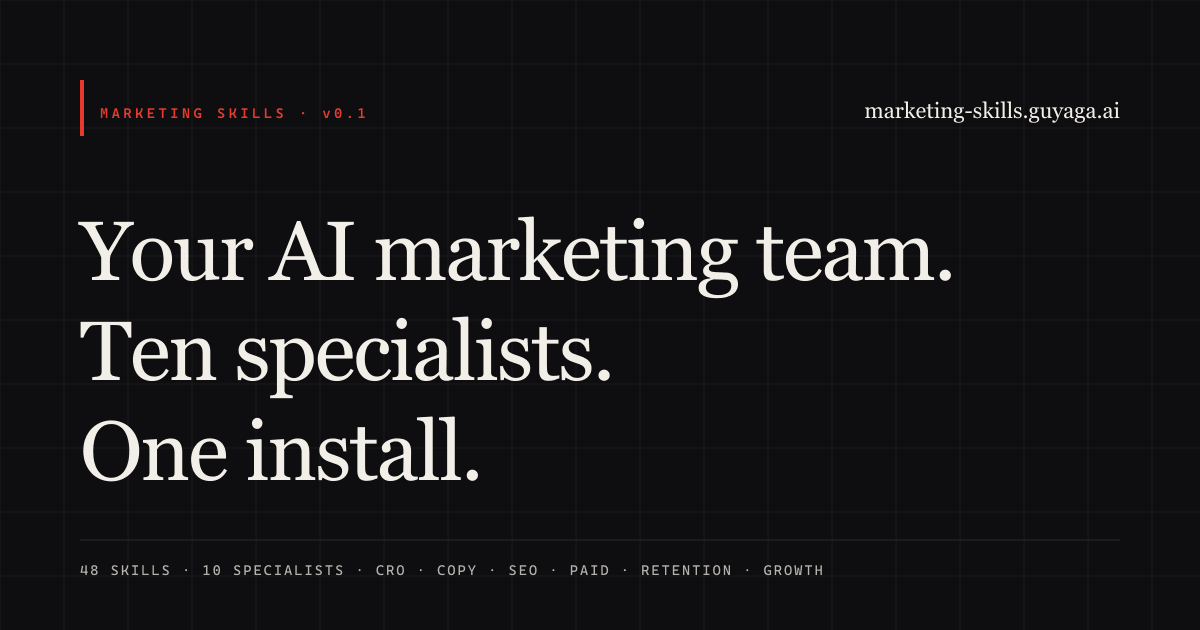
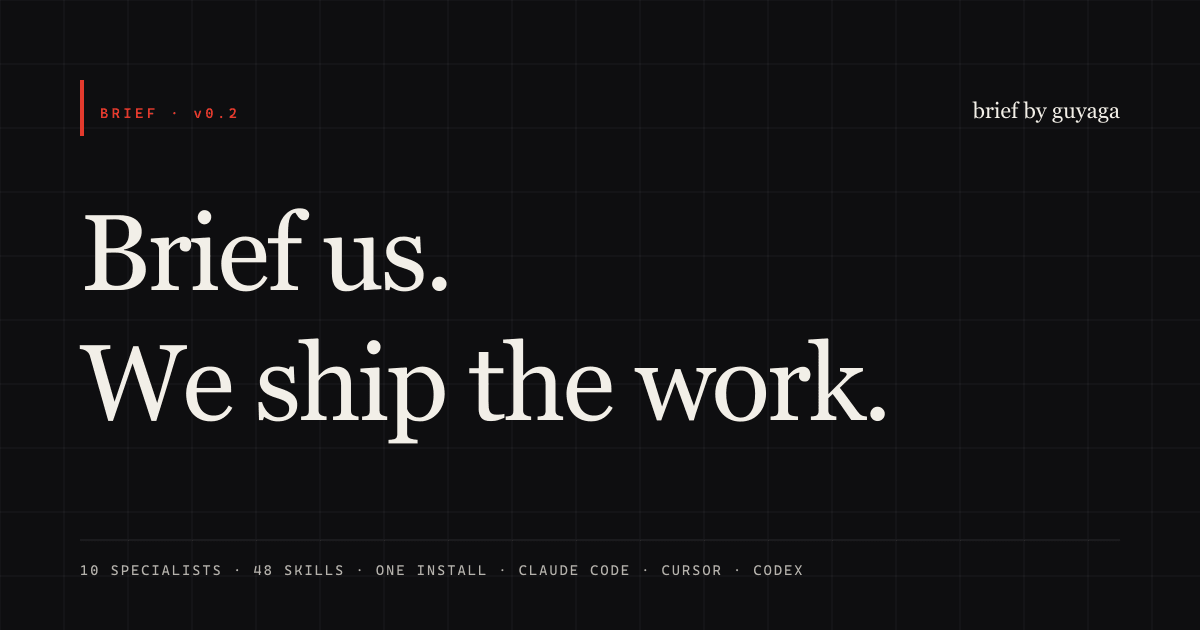
Rebrand: Marketing Skills → Brief
Brand: Brief
Strapline: Brief us. We ship the work.
Substrap: Ten specialists. One install.

GitHub repo renamed: guyaga/marketing-skills → guyaga/brief
(GitHub auto-redirects the old URL; install commands now use guyaga/brief)

Updates across the project:
  .claude-plugin/{plugin,marketplace}.json — name=brief, v0.2.0
  package.json (root)                       — name=brief, repo URL
  site/src/components/BrandHeader.astro    — wordmark "brief", new
                                              /manifesto nav link
  site/src/components/BrandFooter.astro    — wordmark, strapline,
                                              "the 10 rules" link
  site/src/components/StructuredData.astro — Org name, repo URL
  site/src/layouts/BrandLayout.astro       — page title, meta desc,
                                              og:site_name
  site/src/data/story.ts                    — strapline + substrap +
                                              new rules[] array (the
                                              10 operating rules)
  site/src/pages/index.astro               — H1 = strapline,
                                              eyebrow = "BRIEF · v0.2",
                                              marquee leads with
                                              "BRIEF US · WE SHIP
                                              THE WORK"
  site/src/pages/team.astro                 — install command updated
[…]

diff --git a/site/src/data/story.ts b/site/src/data/story.ts
@@ -1,21 +1,78 @@
 export const story = {
-  hookHeadline: "Your AI marketing team. Ten specialists. One install.",
+  name: "Brief",
+  strapline: "Brief us. We ship the work.",
+  substrap: "Ten specialists. One install.",
+  hookHeadline: "Brief us. We ship the work.",
   hookSub:
-    "Most marketing tools give you another dashboard. This gives you ten specialists who already know how to do the work. Pick a problem, the right one steps in.",
+    "Ten marketing specialists installed in your editor. Describe the problem; the right one steps in. Brief is the marketing team your AI agent runs end to end.",
 
   origin: {
-    title: "Why these ten and not another forty",
+    title: "Why this exists",
     body: [
       "Most marketing-skill repos are an unsorted dump of tactics. They give the agent fourteen different ways to write a cold email and zero ways to decide whether cold email is the right move at all.",
-      "We rebuilt the set around how an actual marketing team is structured. Ten roles, each with a clear remit, each owning a small, deep set of skills. The Conversion Specialist owns six skills. The Strategist owns eight. The Media Buyer owns two and goes very deep on both.",
-      "The result: when you ask the agent to do something, the right specialist steps in. You do not have to know which skill to invoke. You ask the question; the team routes it.",
+      "Brief is the inverse. The set is built around how an actual marketing team is structured. Ten roles, each with a clear remit, each owning a small, deep set of skills. The Conversion Specialist owns six. The Strategist owns eight. The Media Buyer owns two and goes very deep on both.",
+      "The result: when you brief the team, the right specialist steps in. You do not have to know which skill to invoke. You describe the situation; the team routes it.",
     ],
   },
 
   installPromise: {
-    headline: "One install. The whole team shows up.",
-    body: "npx skills add guyaga/marketing-skills drops every skill into Claude Code, Cursor, and Codex. The team is ready in under a minute.",
+    headline: "One command. The whole team shows up.",
+    body: "npx skills add guyaga/brief drops every skill into Claude Code, Cursor, and Codex. The team is briefed and ready in under a minute.",
   },
+
+  // The 10 operating rules of the team — used on the homepage and /manifesto
+  rules: [
+    {
+      n: "01",
+      title: "Read context before doing anything",
+      body: "Every skill checks `product-marketing-context.md` first. Nothing ships unbriefed. The Brand Lead writes the context document with you; every other specialist reads it.",
+    },
+    {
+      n: "02",
+      title: "Specialists, not generalists",
+      body: "A great team is ten people who each do one thing very well, not ten who all kind of do everything. Each specialist goes deep on a small remit.",
+    },
+    {
+      n: "03",
+      title: "Brief, do not prompt",
+      body: "Describe the problem; the team routes it. You do not have to pick which specialist runs. Say what is broken or what you want shipped. The right one steps in.",
+    },
+    {
+      n: "04",
+      title: "Voice over variety",
+      body: "The skill works in your voice, not the agent's. Anti-AI-slop is non-negotiable. No em-dashes, no leverage, no transformative, no delve. Concrete over generic.",
+    },
+    {
+      n: "05",
+      title: "Frameworks are named",
+      body: "Every skill ships with named frameworks the agent invokes by name. Reply Method. Bullseye. Four Fits. RFM. PAS. Seven Sweeps. No generic leverage social media filler.",
+    },
+    {
+      n: "06",
+      title: "Cite, do not invent",
+      body: "Every benchmark points at a primary source: Lavender, Baymard, Andrew Chen, Reforge, Wharton JMR. Where a recommendation is heuristic, the skill marks it as such.",
+    },
+    {
+      n: "07",
+      title: "Stage-fit before tactic",
+      body: "The right tactic at the wrong stage burns money. Pre-PMF, ABM is theatre. The team filters tactics by stage before recommending. Wrong stage means the answer is no.",
+    },
+    {
+      n: "08",
+      title: "Honest about limits",
+      body: "Where data is paywalled, the skill says so. Where a benchmark is from one vendor's marketing copy, the skill marks it. The team does not pretend.",
+    },
+    {
+      n: "09",
+      title: "One install, full team",
+      body: "Atomic deployment. Not a la carte. The team works because the team is whole — the Strategist hands briefs to the Copy Chief who hands to the Conversion Specialist who hands to the Analyst. Break the chain and the routing breaks.",
+    },
+    {
+      n: "10",
+      title: "Hand off, do not hoard",
+      body: "Every specialist knows when to pass. The Strategist frames; the Copy Chief writes; the Conversion Specialist tests; the Analyst measures. Each owns their stage and ships to the next. No empire-building inside the team.",
+    },
+  ],
 
   philosophyPoints: [
     {

diff --git a/README.md b/README.md
@@ -1,95 +1,113 @@
-# Marketing Skills
+# Brief
 
-48 marketing skills for AI agents, in Guy Aga's voice.
+**Brief us. We ship the work.**
 
-CRO, copywriting, SEO, paid ads, retention, growth engineering. One install command and the whole library lands in Claude Code, Cursor, and Codex. Then your agent runs them like a marketer would.
+Ten marketing specialists installed in your editor. Describe the problem; the right one steps in.
+
+48 skills total — CRO, copywriting, SEO, paid ads, retention, growth engineering, sales & RevOps, measurement. One install command and the whole team lands in Claude Code, Cursor, and Codex.
 
 Hub: [marketing-skills.guyaga.ai](https://marketing-skills.guyaga.ai)
+Repo: [github.com/guyaga/brief](https://github.com/guyaga/brief)
 
-## What you get
+## How to use
 
-48 skills across 10 categories:
+1. Install the team: `npx skills add guyaga/brief`
+2. Have your AI agent run `product-marketing-context` first — it captures your audience, positioning, and voice in one document
+3. Brief them. Describe the problem in plain language; the right specialist steps in
 
-| Category | Skills |
-| --- | --- |
-| Foundation | product-marketing-context, brand-voice |
-| Conversion Optimization | form-cro, onboarding-cro, page-cro, paywall-upgrade-cro, popup-cro, signup-flow-cro |
-| Content & Copy | cold-email, content-strategy, copy-editing, copywriting, email-sequence, image, social-content, video, content-distribution |
-| SEO & Discovery | ai-seo, aso-audit, competitor-alternatives, programmatic-seo, schema-markup, seo-audit, site-architecture |
-| Paid Distribution | ad-creative, paid-ads |
-| Strategy | competitor-profiling, customer-research, launch-strategy, marketing-ideas, marketing-psychology, pricing-strategy, customer-segmentation, market-sizing |
-| Retention | churn-prevention |
-| Growth Engineering | community-marketing, directory-submissions, free-tool-strategy, lead-magnets, referral-program, marketing-automation |
-| Sales & RevOps | revops, sales-enablement, win-loss-analysis, sales-asset-iteration |
-| Measurement | ab-test-setup, analytics-tracking, marketing-attribution |
+You don't pick which skill to invoke. You describe the situation; the team routes it.
 
-Every skill is a structured prompt the agent runs end to end. `product-marketing-context` runs first and every other skill reads it.
+## The team
+
+Ten named specialists, each with a deep remit and a small set of skills they own.
+
+| # | Specialist | Role | Owns |
+|---|---|---|---|
+| 01 | Elias | The Brand Lead | product-marketing-context, brand-voice |
+| 02 | Maya | The Conversion Specialist | form-cro, onboarding-cro, page-cro, paywall-upgrade-cro, popup-cro, signup-flow-cro |
+| 03 | Daniel | The Copy Chief | cold-email, content-strategy, copy-editing, copywriting, email-sequence, image, social-content, video, content-distribution |
+| 04 | Yara | The SEO Lead | ai-seo, aso-audit, competitor-alternatives, programmatic-seo, schema-markup, seo-audit, site-architecture |
+| 05 | Reza | The Media Buyer | ad-creative, paid-ads |
+| 06 | Nadia | The Strategist | competitor-profiling, customer-research, launch-strategy, marketing-ideas, marketing-psychology, pricing-strategy, customer-segmentation, market-sizing |
+| 07 | Ines | The Customer Success Lead | churn-prevention |
+| 08 | Theo | The Growth Engineer | community-marketing, directory-submissions, free-tool-strategy, lead-magnets, referral-program, marketing-automation |
+| 09 | Marcus | The Operator | revops, sales-enablement, win-loss-analysis, sales-asset-iteration |
+| 10 | Priya | The Analyst | ab-test-setup, analytics-tracking, marketing-attribution |
+
+## The 10 rules of the team
+
+1. **Read context before doing anything** — every skill checks `product-marketing-context.md` first
+2. **Specialists, not generalists** — each does one thing well, not ten things kind of
+3. **Brief, do not prompt** — describe the problem; the team routes it
+4. **Voice over variety** — the work ships in your voice, not the agent's
+5. **Frameworks are named** — Reply Method, Bullseye, Four Fits, RFM, PAS — not generic filler
+6. **Cite, do not invent** — every benchmark cites a primary source
+7. **Stage-fit before tactic** — the right tactic at the wrong stage burns money
+8. **Honest about limits** — paywalled and heuristic content is marked
+9. **One install, full team** — atomic deployment, not à la carte
+10. **Hand off, do not hoard** — Strategist hands to Copy Chief hands to Conversion Specialist hands to Analyst
 
 ## Install
 
-Six ways to install. Pick whichever fits your workflow.
+Six ways to get the team into your project. Pick whichever fits your workflow.
 
 ### 1. npx skills add (recommended)
 
 ```bash
-npx skills add guyaga/marketing-skills
+npx skills add guyaga/brief
 ```
 
-Drops the 40 skills into `.agents/skills/` and symlinks them to `.claude/skills/` so Claude Code picks them up immediately. Powered by [Vercel Labs' `skills` CLI](https://github.com/vercel-labs/skills).
+Drops every specialist into `.agents/skills/` and symlinks them to `.claude/skills/` so Claude Code picks up the team immediately. Powered by [Vercel Labs' `skills` CLI](https://github.com/vercel-labs/skills).
 
 ### 2. Claude Code plugin
 
 From inside Claude Code:
 
 ```
-/plugin add github:guyaga/marketing-skills
+/plugin add github:guyaga/brief
 ```
 
-Use this if you prefer Claude Code's native plugin manager.
+### 3. Single skill via degit
 
-### 3. Clone and copy
+If you only need one specialist:
 
 ```bash
-git clone https://github.com/guyaga/marketing-skills.git
-cp -r marketing-skills/skills .agents/
+npx degit guyaga/brief/skills/cold-email .agents/skills/cold-email
 ```
 
-Use this when you want full control or no installer in the loop.
-
-### 4. Git submodule
+### 4. Clone and copy
 
 ```bash
-git submodule add https://github.com/guyaga/marketing-skills.git .agents/marketing-skills
+git clone https://github.com/guyaga/brief.git
+cp -r brief/skills .agents/
 ```
 
-Best for teams that want a tracked, pinned version.
-
-### 5. Fork and customize
-
-Fork on GitHub, edit the skills to fit your product and voice, then install your fork the same way:
+### 5. Git submodule
 
 ```bash
-npx skills add YOUR-USERNAME/marketing-skills
+git submodule add https://github.com/guyaga/brief.git .agents/brief
 ```
 
 ### 6. SkillKit (multi-agent)
 
 ```bash
-npx skillkit install guyaga/marketing-skills
+npx skillkit install guyaga/brief
 ```
 
-Installs the same skills across Claude Code, Cursor, Codex, and Copilot in one shot. Use this if you switch between agents.
+Same team across Claude Code, Cursor, Codex, and Copilot in one shot.
 
 ## After install
 
-Run `product-marketing-context` first. Every other skill reads it before it does anything. It is your audience, positioning, and voice in one document. The agent fills it in with you.
+Run `product-marketing-context` first. Every other skill reads it before doing anything. It is your audience, positioning, and voice in one document. The Brand Lead fills it in with you.
 
-Then ask the agent to do anything:
+Then brief the team:
 
 - "Write a comparison page against [competitor]."
 - "Audit my signup flow."
 - "Plan our launch."
 - "Generate three ad creative variants for the new homepage hero."
+
+The right specialist steps in.
 
 ## Repo layout
 
@@ -113,7 +131,7 @@ If you fork this and rewrite the skill bodies in your own voice, that is the poi
 
 ## Credit
 
-This project is a brand-customized adaptation of [Corey Haines' marketing-skills](https://github.com/coreyhaines31/marketingskills), MIT licensed. The skill bodies in `skills/` are derivative work and remain under the upstream MIT License. See [`NOTICE`](./NOTICE) for full attribution.
+Brief is a brand-customized adaptation of [Corey Haines' marketing-skills](https://github.com/coreyhaines31/marketingskills), MIT licensed. The skill bodies in `skills/` are derivative work and remain under the upstream MIT License. See [`NOTICE`](./NOTICE) for full attribution.
 
 For the original, unbranded source, install with `npx skills add coreyhaines31/marketingskills`.
 
